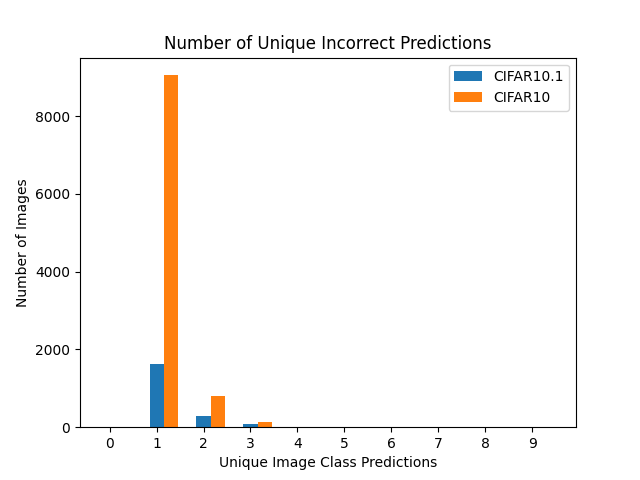
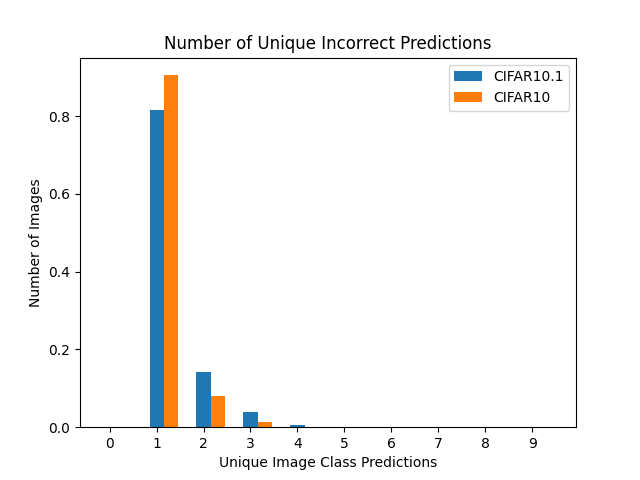
pred distance investigation

diff --git a/histogram.py b/histogram.py
@@ -2,44 +2,142 @@ import os
 import numpy as np
 import matplotlib.pyplot as plt
 
-bin1 = 0.9404
-bin2 = 0.9622
 
-model_acc1, model_acc2 = [], []
-cifar10_outputs, cifar10_1_outputs = [], [] 
-cifar10_labels, cifar10_1_labels = [], []
-for root, dirs, files in os.walk('./model_outputs'):
-    for file in files:
-        with np.load(root + '/' +file) as data:
-            if "cifar10-1" in file:
-                cifar10_1_outputs.append(np.argmax(data['preds'], axis=1))
-                cifar10_1_labels = data['labels']
-                model_acc1.append(float(data['acc']))
-            else:
-                cifar10_outputs.append(np.argmax(data['preds'], axis=1))
-                cifar10_labels = data['labels']
-                model_acc2.append(float(data['acc']))
-                if float(data['acc']) > bin2:
-                    print(len(model_acc2)-1)
+def parse_data():
+    bin1_t = 0.9404
+    bin2_t = 0.9622
+    bin1_idx, bin2_idx, bin3_idx = [], [], []
+    model_acc1, model_acc2 = [], []
+    cifar10_outputs, cifar10_1_outputs = [], [] 
+    cifar10_labels, cifar10_1_labels = [], []
+    cifar10_preds, cifar10_1_preds = [], []
+
+    for root, dirs, files in os.walk('./model_outputs'):
+        for file in files:
+            with np.load(root + '/' +file) as data:
+                if "cifar10-1" in file:
+                    cifar10_1_outputs.append(np.argmax(data['preds'], axis=1))
+                    cifar10_1_labels = data['labels']
+                    model_acc1.append(float(data['acc']))
+                    cifar10_1_preds.append(data['preds'])
+                else:
+                    cifar10_outputs.append(np.argmax(data['preds'], axis=1))
+                    cifar10_labels = data['labels']
+                    model_acc2.append(float(data['acc']))
+                    cifar10_preds.append(data['preds'])
+                    if float(data['acc']) < bin1_t:
+                        bin1_idx.append(len(model_acc2)-1)
+                    elif float(data['acc']) < bin2_t:
+                        bin2_idx.append(len(model_acc2)-1)
+                    else:
+                        bin3_idx.append(len(model_acc2)-1)
+    
+    return cifar10_outputs, cifar10_1_outputs, cifar10_labels, cifar10_1_labels, bin1_idx, bin2_idx, bin3_idx, cifar10_preds, cifar10_1_preds
+
+
+def bin_norm_unique_output(cifar10_1_outputs_o, cifar10_outputs_o, cifar10_1_labels, cifar10_labels, bin1_idx, bin2_idx, bin3_idx):
+    count = 1
+    for bin_idx in [bin1_idx, bin2_idx, bin3_idx]:
+        # split into bins
+        num_models = len(bin_idx)
+        cifar10_1_outputs = [cifar10_1_outputs_o[i] for i in bin_idx]
+        cifar10_outputs = [cifar10_outputs_o[i] for i in bin_idx]
+
+        # n_points x n_models
+        cifar10_outputs = np.transpose(np.array(cifar10_outputs, dtype=np.int64))
+        cifar10_1_outputs = np.transpose(np.array(cifar10_1_outputs, dtype=np.int64))
+        
+
+        output_numbers_10_1, output_numbers_10 = np.zeros(10), np.zeros(10)
+
+        for image in cifar10_1_outputs:
+            output_numbers_10_1[len(list(set(image)))] += 1
+
+        for image in cifar10_outputs:
+            output_numbers_10[len(list(set(image)))] += 1
+
+        output_numbers_10_1 /= len(cifar10_1_labels)
+        output_numbers_10 /= len(cifar10_labels)
+
+        plt.bar(np.arange(10), output_numbers_10_1, 0.3, label='CIFAR10.1')
+        plt.bar(np.arange(10)+0.3, output_numbers_10, 0.3, label='CIFAR10')
+        plt.xticks([i for i in range(10)], [i for i in range(10)])
+        plt.title('Number of Unique Incorrect Predictions')
+        plt.xlabel("Unique Image Class Predictions")
+        plt.ylabel("Number of Images")
+        plt.legend(loc='upper right')
+        plt.savefig('./images/bin'+ str(count) +'_datasets_norm_unique.png')
+        plt.clf() 
+        count += 1
+
+def close_distant_split(cifar10_1_preds, name, cifar10_1_outputs, bin1_idx, bin2_idx, bin3_idx):
+    # close set -> max, mode of prediction vectors between model i, j within some epsilon
+    # distant set -> else
+    close, distant = [], []
+    epsilon = 0.5
+    mode_threshold = 1
+    num_models = len(cifar10_1_preds)
+
+    #cifar10_outputs = np.transpose(np.array(cifar10_outputs, dtype=np.int64))
+    cifar10_1_outputs = np.transpose(np.array(cifar10_1_outputs, dtype=np.int64))
+    
+    #cifar10_images = np.transpose(np.array(cifar10_preds, dtype=np.int64), (1, 0, 2))
+    cifar10_1_images = np.transpose(np.array(cifar10_1_preds, dtype=np.int64), (1, 0, 2))
+
+    # 2000 x num_models X num_classes
+    print(cifar10_1_images.shape, num_models)
+
+    distances, uniques = [], []
+    avg_distances = []
+    max2, avg2 = [], []
+    for im in range(len(cifar10_1_images)):
+        max_distance = 0
+        avg_distance = 0
+        max2_dist = 0
+        avg2_dist = 0
+        for i in range(num_models):
+            for j in range(i, num_models):
+                distance = np.linalg.norm(cifar10_1_images[im][i] - cifar10_1_images[im][j])
+                max_distance = max(distance, max_distance)
+                avg_distance += distance
+
+            temp = cifar10_1_images[im][i]
+            temp.sort()
+            max2_dist = max(max2_dist, abs(temp[-1] - temp[-2]))
+            avg2_dist += abs(temp[-1] - temp[-2])
+                    
+                        
+        max2.append(max2_dist)
+        avg2.append(avg2_dist/i)
+        distances.append(max_distance)
+        avg_distances.append(avg_distance/(i**2))
+        uniques.append(len(list(set(cifar10_1_outputs[im]))))
+
+    color = 'blue' if name == "Cifar10" else 'orange'
+    plt.scatter(distances, uniques, color=color)
+    plt.title('Max Distance vs Unique ' + name)
+    plt.savefig("./images/max_norm" + name + ".png")
+    plt.clf()
+
+    plt.scatter(avg_distances, uniques, color=color)
+    plt.title('Average Distance vs Unique ' + name)
+    plt.savefig("./images/avg_norm" + name + ".png")
+    plt.clf()
+
+    plt.scatter(max2, uniques, color=color)
+    plt.title('Max Distance 2 vs Unique ' + name)
+    plt.savefig("./images/max2_norm" + name + ".png")
+    plt.clf()
+
+    plt.scatter(avg2, uniques, color=color)
+    plt.title('Average Distance 2 vs Unique ' + name)
+    plt.savefig("./images/avg2_norm" + name + ".png")
+    plt.clf()
+
                 
 
 
-# idx = [11, 12, 13, 14, 16, 17]
-# cifar10_1_outputs = [cifar10_1_outputs[i] for i in idx]
-# cifar10_outputs = [cifar10_outputs[i] for i in idx]
-
-# n_points x n_models
-cifar10_outputs = np.transpose(np.array(cifar10_outputs, dtype=np.int64))
-cifar10_1_outputs = np.transpose(np.array(cifar10_1_outputs, dtype=np.int64))
-num_models = len(cifar10_1_outputs[0])
-
-output_numbers_10_1, output_numbers_10 = np.zeros(10), np.zeros(10)
-
-for image in cifar10_1_outputs:
-    output_numbers_10_1[len(list(set(image)))] += 1
-
-for image in cifar10_outputs:
-    output_numbers_10[len(list(set(image)))] += 1
+    # return close, distant
 
 
 
@@ -58,18 +156,7 @@ for image in cifar10_outputs:
 # plt.savefig('./images/datasets_unique.png')
 # plt.clf() 
 
-# output_numbers_10_1 /= len(cifar10_1_labels)
-# output_numbers_10 /= len(cifar10_labels)
 
-plt.bar(np.arange(10), output_numbers_10_1, 0.3, label='CIFAR10.1')
-plt.bar(np.arange(10)+0.3, output_numbers_10, 0.3, label='CIFAR10')
-plt.xticks([i for i in range(10)], [i for i in range(10)])
-plt.title('Number of Unique Incorrect Predictions')
-plt.xlabel("Unique Image Class Predictions")
-plt.ylabel("Number of Images")
-plt.legend(loc='upper right')
-plt.savefig('./images/datasets_norm_unique.png')
-plt.clf() 
 
 
 
@@ -140,3 +227,9 @@ plt.clf()
 #     plt.legend(loc='upper right')
 #     plt.savefig('./images/class_{}.png'.format(label))
 #     plt.clf() 
+
+
+cifar10_outputs, cifar10_1_outputs, cifar10_labels, cifar10_1_labels, bin1_idx, bin2_idx, bin3_idx, cifar10_preds, cifar10_1_preds = parse_data()
+# bin_norm_unique_output(cifar10_1_outputs, cifar10_outputs, cifar10_1_labels, cifar10_labels, bin1_idx, bin2_idx, bin3_idx)
+close_distant_split(cifar10_1_preds, "Cifar10-1", cifar10_1_outputs, bin1_idx, bin2_idx, bin3_idx)
+close_distant_split(cifar10_preds, "Cifar10", cifar10_outputs, bin1_idx, bin2_idx, bin3_idx)
